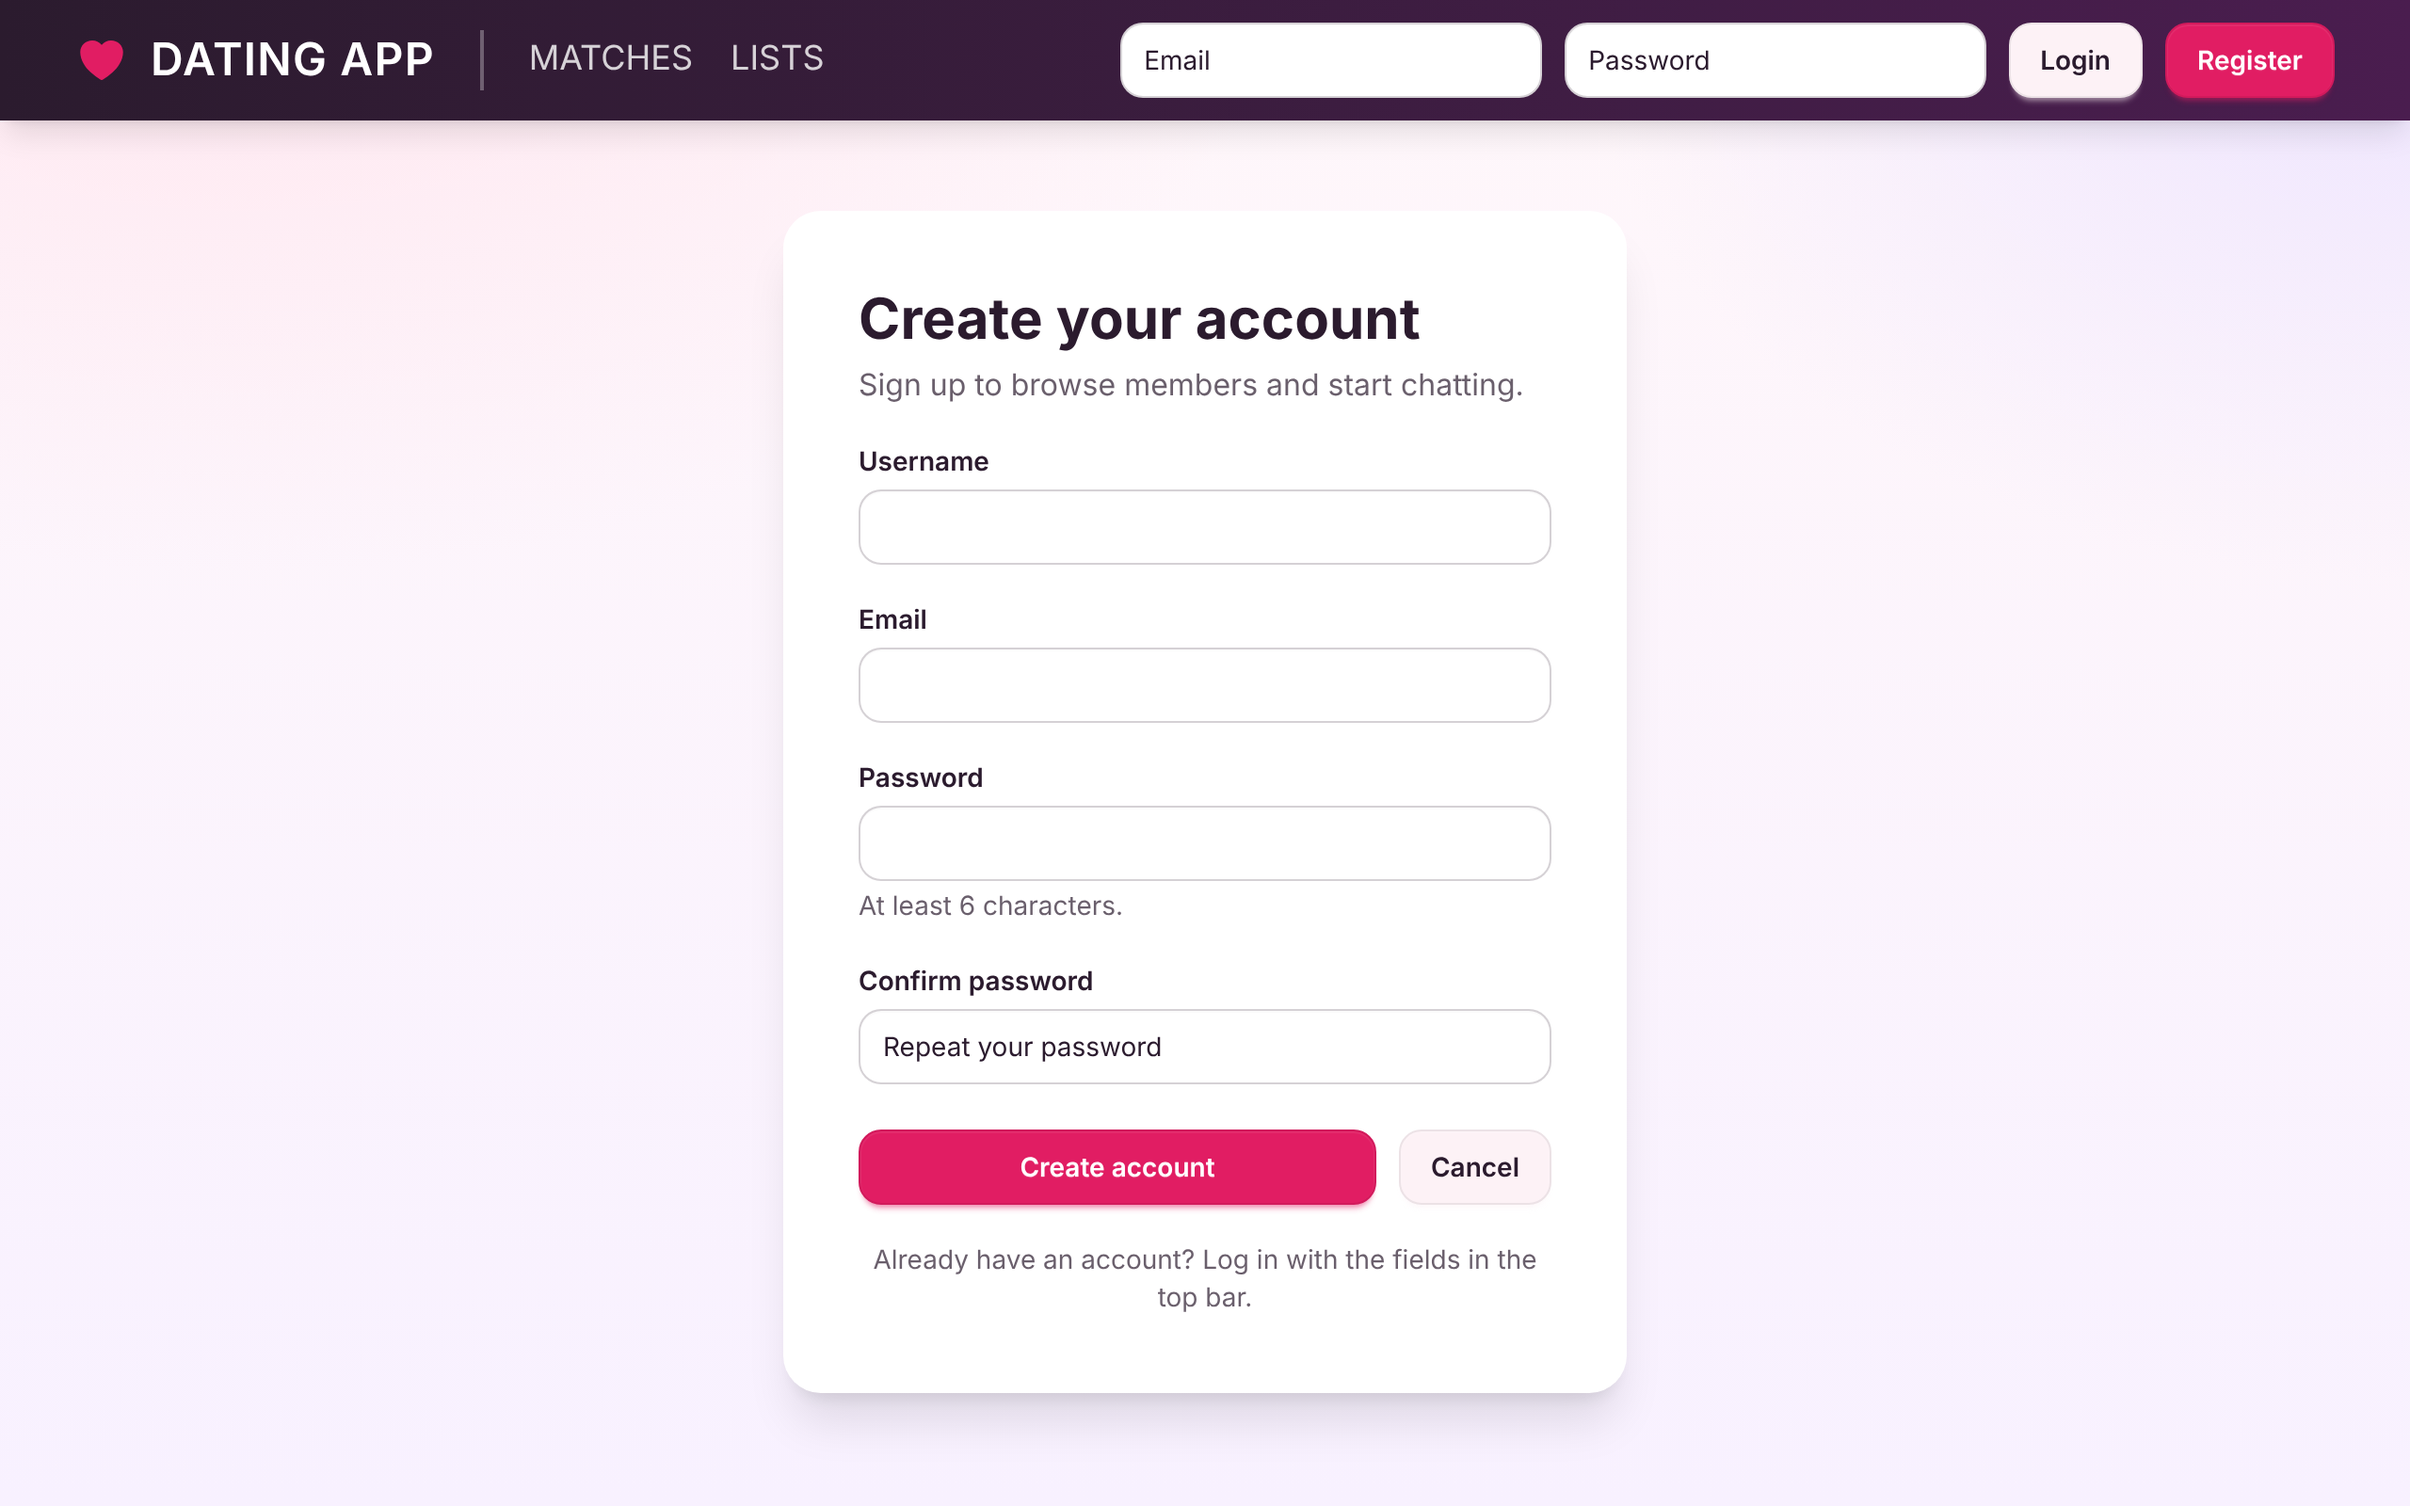
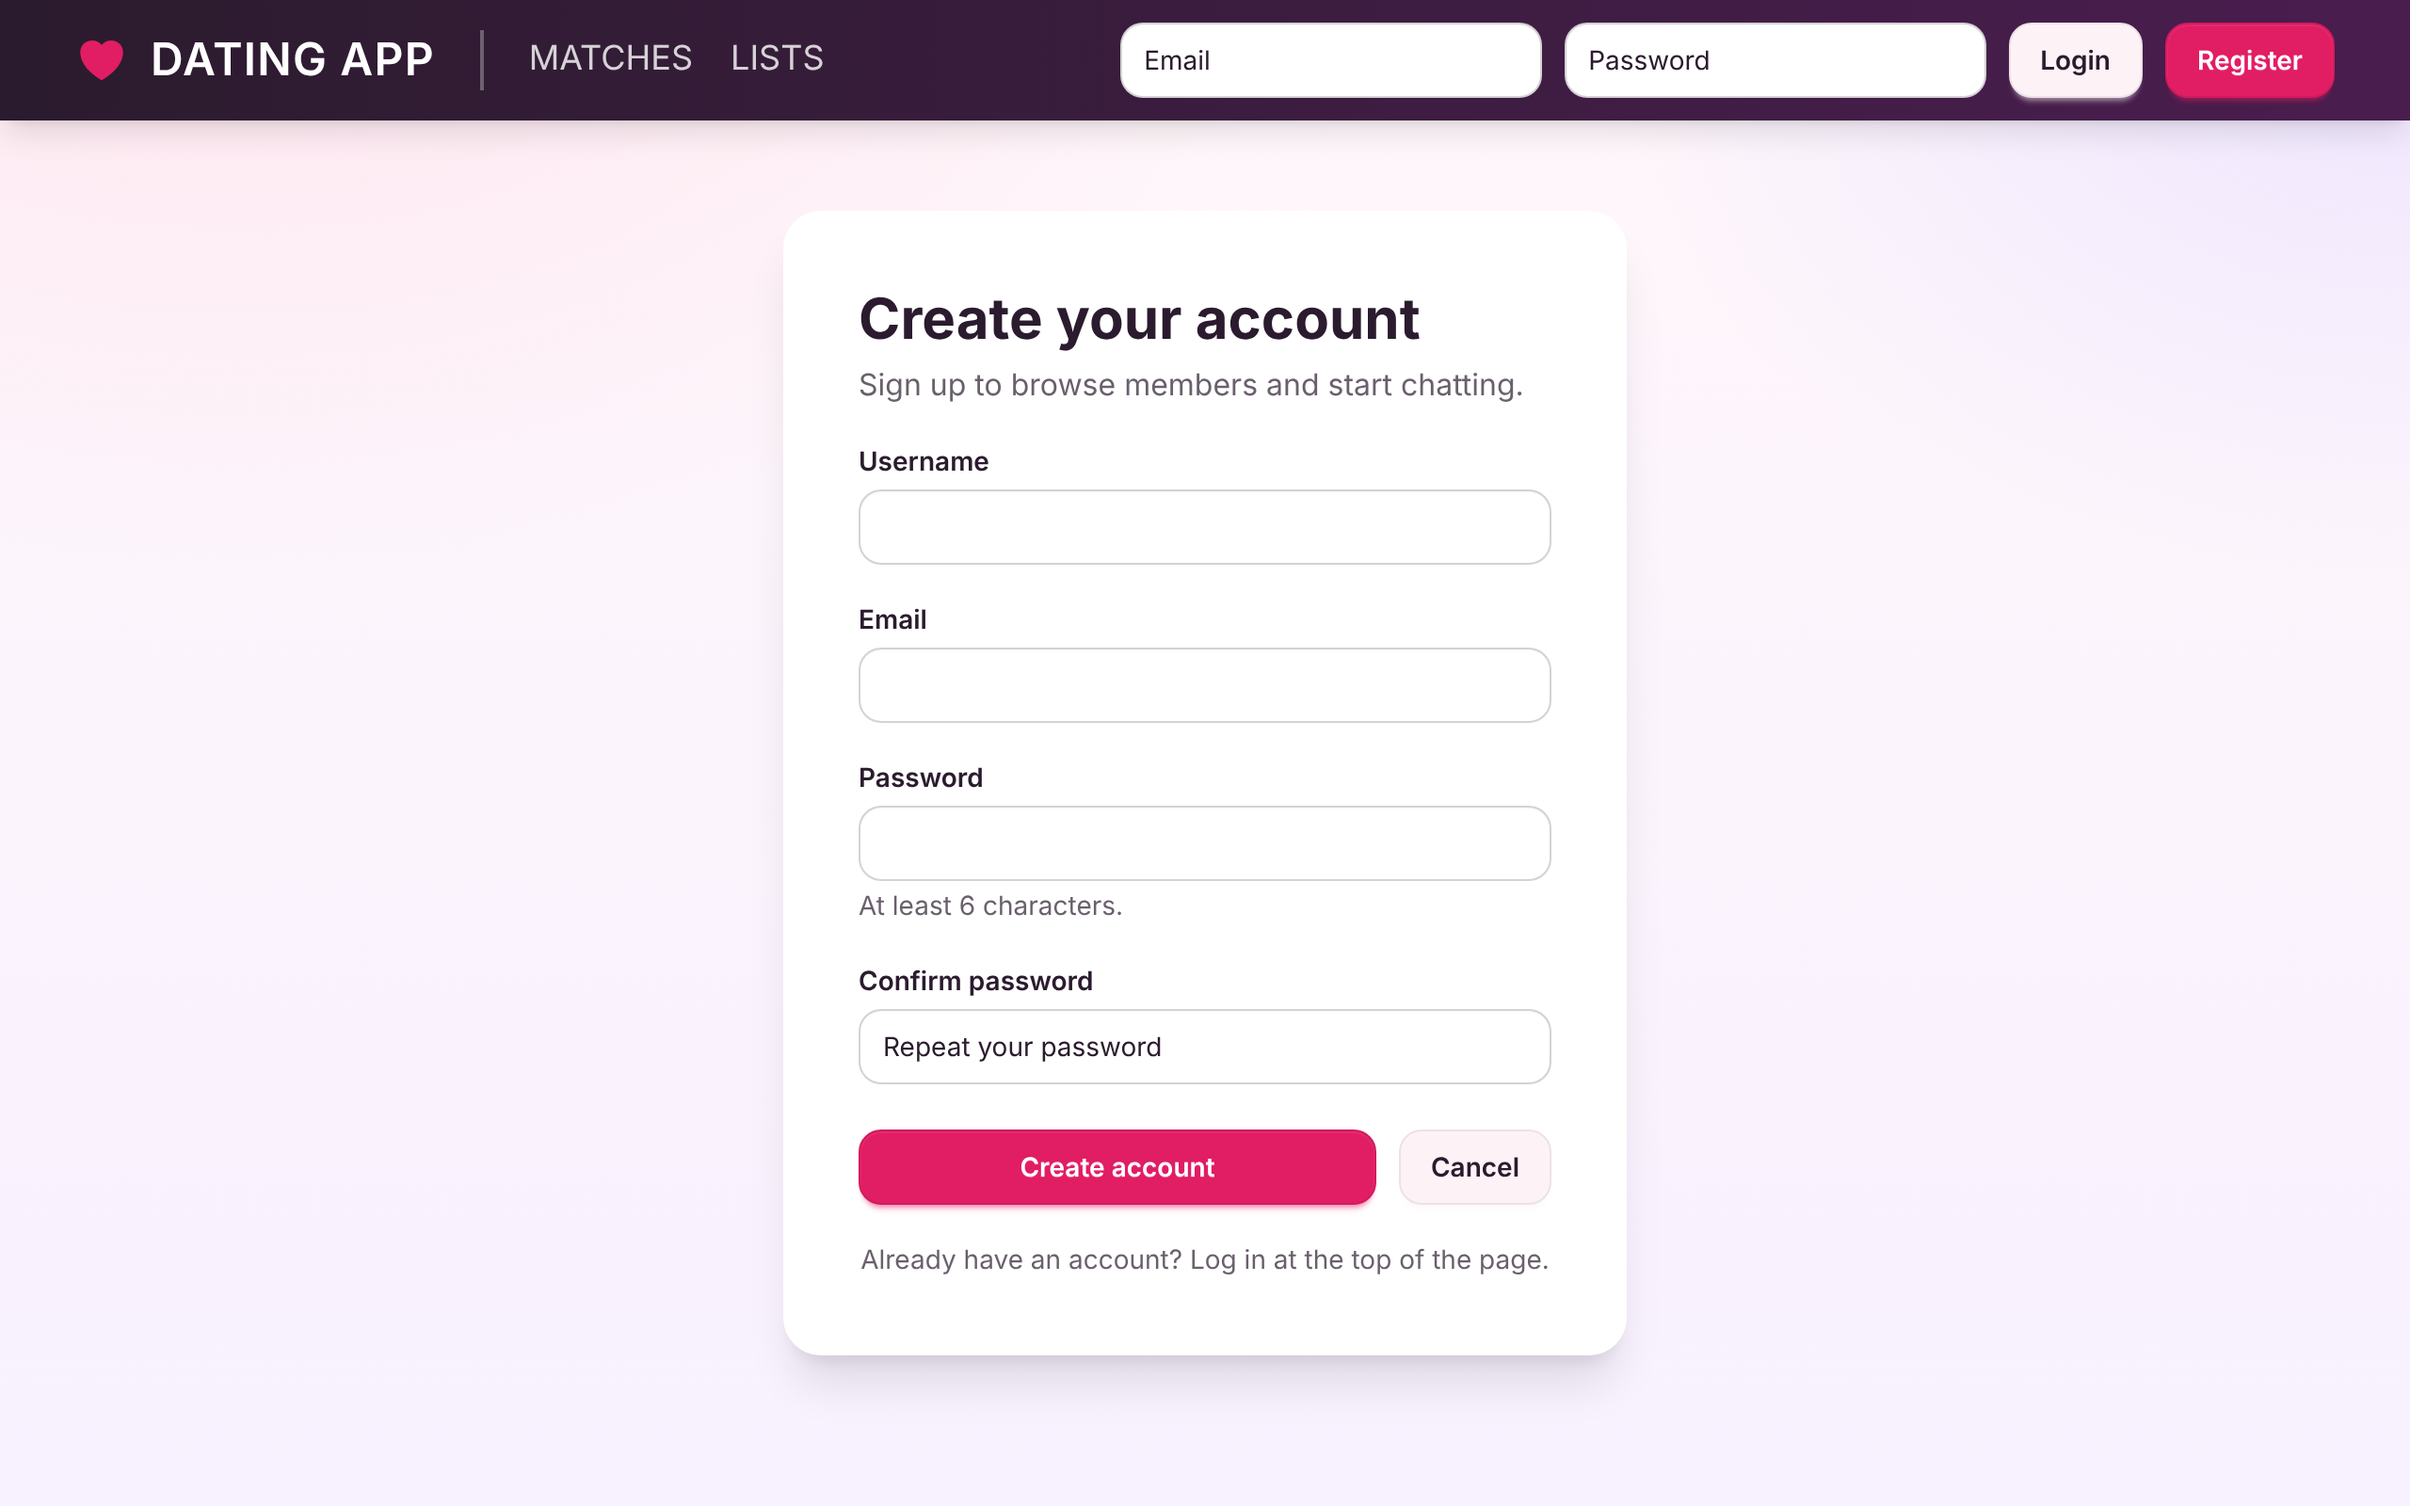
Review fixes, README summary and screenshots
- Member detail / error pages: side margins on phones (card touched the
  screen edges)
- Register: login hint no longer refers to fields in the top bar (they
  are in the menu on phones)
- README: summary mentions photo grid, theme and responsive layout;
  features list updated; phone screenshots added; all screenshots retaken

Claude-Session: https://claude.ai/code/session_01HU36gBJ36QF4X4vq91BXfG

Changed region(s): [[0.3125, 0.8125, 0.6875, 0.9375]]

diff --git a/client/src/errors/not-found/not-found.html b/client/src/errors/not-found/not-found.html
@@ -1,4 +1,4 @@
-<div class="card bg-base-100 w-full max-w-5xl mx-auto p-8 mt-28 shadow-xl items-center text-center">
+<div class="card bg-base-100 max-w-5xl mx-4 sm:mx-6 lg:mx-auto p-5 sm:p-8 mt-28 shadow-xl items-center text-center">
   <h1 class="text-2xl font-semibold mb-4">Not Found</h1>
   <h2 class="text-lg">The resource you were looking for could not be found.</h2>
   <a routerLink="/" class="btn mt-6">Back home</a>

diff --git a/client/src/members/member-detail/member-detail.html b/client/src/members/member-detail/member-detail.html
@@ -1,5 +1,5 @@
 @if (member(); as member) {
-  <div class="card bg-base-100 w-full max-w-5xl mx-auto p-8 mt-28 mb-10 shadow-xl">
+  <div class="card bg-base-100 max-w-5xl mx-4 sm:mx-6 lg:mx-auto p-5 sm:p-8 mt-28 mb-10 shadow-xl">
     <div class="flex items-center gap-6">
       <img [src]="member.imageUrl || '/male_defaultAvatar_vecteezy.jpg'" alt="user avatar" class="size-32 rounded-box object-cover">
       <div>

diff --git a/client/src/errors/server-error/server-error.html b/client/src/errors/server-error/server-error.html
@@ -1,4 +1,4 @@
-<div class="card bg-base-100 w-full max-w-5xl mx-auto p-8 mt-28 mb-10 shadow-xl">
+<div class="card bg-base-100 max-w-5xl mx-4 sm:mx-6 lg:mx-auto p-5 sm:p-8 mt-28 mb-10 shadow-xl">
   <h1 class="text-2xl font-semibold text-error mb-4">Server Error</h1>
   @if (error) {
     <h2 class="text-lg mb-4">{{ error.message }}</h2>

diff --git a/client/src/account/register/register.html b/client/src/account/register/register.html
@@ -95,7 +95,7 @@
     </div>
 
     <p class="text-sm text-center text-base-content/70">
-      Already have an account? Log in with the fields in the top bar.
+      Already have an account? Log in at the top of the page.
     </p>
   </form>
 </div>

diff --git a/README.md b/README.md
@@ -13,9 +13,9 @@
 ## 📝 Summary
 
 A small dating app with an **ASP.NET Core Web API** backend and an **Angular** single-page frontend.
-Users can register and log in (JWT), browse other members with search, sorting and pagination,
+Users can register and log in (JWT), browse other members in a photo grid with search, sorting and pagination,
 upload profile photos via drag & drop, and chat with each other in real time via **SignalR** –
-including a live online indicator.
+including a live online indicator. The UI uses a custom rose/plum theme and works on desktop, tablet and phone.
 
 ![Member list](docs/screenshots/members.png)
 
@@ -24,6 +24,14 @@ including a live online indicator.
 | ![Register](docs/screenshots/register.png) | ![Own profile](docs/screenshots/own-profile.png) |
 | **Live chat with online status** | **Messages (Inbox / Outbox / Unread)** |
 | ![Member detail with chat](docs/screenshots/member-detail.png) | ![Messages](docs/screenshots/messages.png) |
+
+**On the phone**
+
+<p>
+  <img src="docs/screenshots/mobile-members.png" alt="Member grid on a phone" width="260">
+  &nbsp;
+  <img src="docs/screenshots/mobile-menu.png" alt="Mobile menu" width="260">
+</p>
 
 <sub>Screenshots use generated placeholder avatars and sample data.</sub>
 
@@ -54,10 +62,11 @@ Open http://localhost:4200, click **Register** in the top bar and create your fi
 ## ✨ Features
 
 - **Accounts** – registration & login, JWT auth (HMACSHA512 password hashing), session kept in localStorage
-- **Members** – list with username search, A–Z / Z–A sorting and server-side pagination; member detail page
+- **Members** – photo grid with username search, A–Z / Z–A sorting and server-side pagination; member detail page
 - **Photos** – drag & drop upload (jpg/png/gif/webp, max 10 MB), set main photo, delete
 - **Messaging** – private messages with Inbox / Outbox / Unread views
 - **Real-time** – SignalR hubs for online presence and live chat threads
+- **UI** – custom daisyUI theme, responsive layout with a mobile menu below 1024 px
 - **Error handling** – global API exception middleware, Angular error interceptor with toasts and error pages
 - **Tests** – xUnit tests for the Account and Members controllers
 
